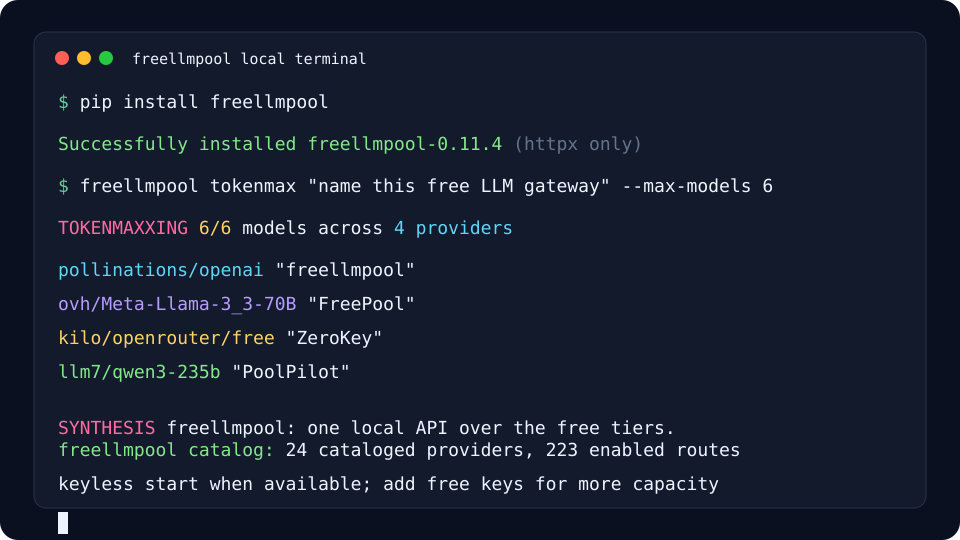
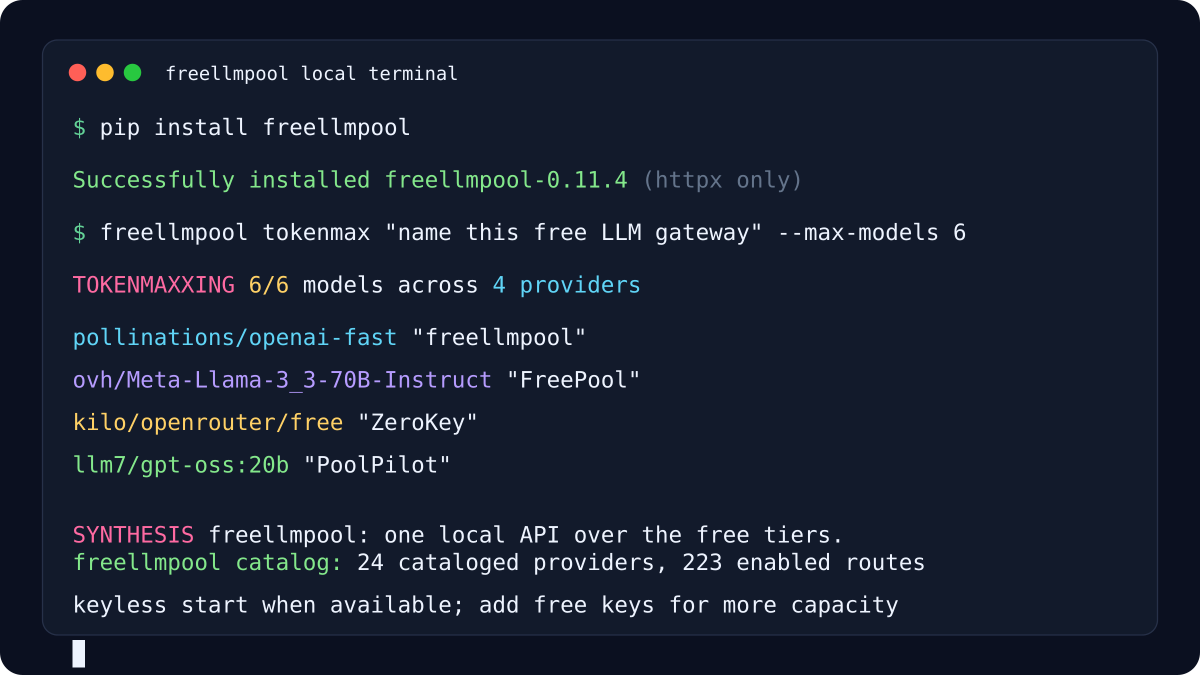
fix: address xhigh maintenance audit

diff --git a/scripts/catalog_sentinel.py b/scripts/catalog_sentinel.py
@@ -7,7 +7,6 @@ import argparse
 import asyncio
 import json
 import os
-import re
 import sys
 from collections.abc import Callable
 from datetime import UTC, datetime
@@ -22,17 +21,16 @@ if str(SRC) not in sys.path:
     sys.path.insert(0, str(SRC))
 
 from freellmpool import client as flp_client  # noqa: E402
+from freellmpool.catalog_validation import normalize_model_listing  # noqa: E402
 from freellmpool.config import load_catalog  # noqa: E402
 from freellmpool.errors import ProviderHTTPError  # noqa: E402
 from freellmpool.models import Provider  # noqa: E402
 
 _MAX_BODY_BYTES = 1_000_000
-_MAX_MODEL_ID = 200
 _MAX_SECRET_JSON_BYTES = 32_000
 _MAX_PREVIOUS_BYTES = 2_000_000
 _MAX_ISSUE_BODY_BYTES = 60_000
 _PING = [{"role": "user", "content": "Reply with the single word: pong"}]
-_SAFE_MODEL_ID = re.compile(r"^[A-Za-z0-9@][A-Za-z0-9._:/@+-]{0,199}$")
 # Only endpoints verified to expose a complete public chat-model listing belong
 # here. Everything else is useful for additions, but absences remain unconfirmed.
 _AUTHORITATIVE_PUBLIC_LISTINGS = frozenset({"pollinations"})
@@ -60,32 +58,6 @@ def classify_http(status: int | None) -> str:
     if 500 <= status < 600:
         return "transient_provider_error"
     return "other_provider_error"
-
-
-def normalize_model_listing(payload: Any) -> tuple[str, ...]:
-    rows = payload.get("data") if isinstance(payload, dict) else payload
-    if not isinstance(rows, list):
-        return ()
-    found: set[str] = set()
-    for row in rows:
-        candidates: list[Any]
-        if isinstance(row, dict):
-            candidates = [row.get("id") or row.get("name")]
-            aliases = row.get("aliases")
-            if isinstance(aliases, list):
-                candidates.extend(aliases)
-        else:
-            candidates = [row]
-        for model_id in candidates:
-            if not isinstance(model_id, str):
-                continue
-            if (
-                not 1 <= len(model_id) <= _MAX_MODEL_ID
-                or not _SAFE_MODEL_ID.fullmatch(model_id)
-            ):
-                continue
-            found.add(model_id)
-    return tuple(sorted(found))
 
 
 def _public_models_url(provider: Provider) -> str:

diff --git a/tests/test_proxy.py b/tests/test_proxy.py
@@ -16,6 +16,7 @@ import pytest
 from helpers import gemini_body, make_post, make_stream_post, openai_body
 
 from freellmpool import __version__
+from freellmpool import proxy as proxy_module
 from freellmpool.client import HTTPResult
 from freellmpool.errors import AllProvidersExhausted
 from freellmpool.proxy import (
@@ -50,14 +51,15 @@ def _post_json(url, payload):
         return resp.status, json.load(resp)
 
 
-def test_chat_completions_shape(server):
+def test_chat_completions_shape(server, monkeypatch):
+    monkeypatch.setattr(proxy_module.time, "time", lambda: 1_700_000_000.875)
     status, body = _post_json(
         server + "/v1/chat/completions",
         {"model": "auto", "messages": [{"role": "user", "content": "hi"}]},
     )
     assert status == 200
     assert body["object"] == "chat.completion"
-    assert isinstance(body["created"], int)
+    assert body["created"] == 1_700_000_000
     assert body["choices"][0]["message"]["content"] == "ok"
     assert "x_freellmpool" in body
 
@@ -222,9 +224,9 @@ def test_proxy_waits_briefly_for_a_connection_slot_before_rejecting(monkeypatch)
     server.shutdown_request = lambda request: rejected.append(request)
 
     request = object()
+    started = time.monotonic()
     releaser = threading.Timer(0.05, server._slots.release)
     releaser.start()
-    started = time.monotonic()
     server.process_request(request, ("127.0.0.1", 12345))
     elapsed = time.monotonic() - started
     releaser.join()

diff --git a/src/freellmpool/catalog_validation.py b/src/freellmpool/catalog_validation.py
@@ -2,8 +2,10 @@
 
 from __future__ import annotations
 
+import re
 from collections import Counter
 from pathlib import Path
+from typing import Any
 from urllib.parse import urlsplit
 
 from .capability import capability_table, model_capability
@@ -12,6 +14,33 @@ from .models import Provider
 
 _ADAPTERS = {"openai", "gemini", "cloudflare"}
 _AUTH = {"bearer", "none"}
+_MAX_MODEL_ID = 200
+_SAFE_MODEL_ID = re.compile(r"^[A-Za-z0-9@][A-Za-z0-9._:/@+-]{0,199}$")
+
+
+def normalize_model_listing(payload: Any) -> tuple[str, ...]:
+    """Return bounded, safe canonical model names and aliases from common listings."""
+
+    rows = payload.get("data") if isinstance(payload, dict) else payload
+    if not isinstance(rows, list):
+        return ()
+    found: set[str] = set()
+    for row in rows:
+        if isinstance(row, dict):
+            candidates: list[Any] = [row.get("id") or row.get("name")]
+            aliases = row.get("aliases")
+            if isinstance(aliases, list):
+                candidates.extend(aliases)
+        else:
+            candidates = [row]
+        for model_id in candidates:
+            if (
+                isinstance(model_id, str)
+                and 1 <= len(model_id) <= _MAX_MODEL_ID
+                and _SAFE_MODEL_ID.fullmatch(model_id)
+            ):
+                found.add(model_id)
+    return tuple(sorted(found))
 
 
 def _valid_url(value: str) -> bool:

diff --git a/scripts/vet_catalog.py b/scripts/vet_catalog.py
@@ -43,6 +43,7 @@ if _SRC.is_dir():
 import httpx  # noqa: E402
 
 from freellmpool import client as flp_client  # noqa: E402
+from freellmpool.catalog_validation import normalize_model_listing  # noqa: E402
 from freellmpool.config import configured_providers, effective_env, load_catalog  # noqa: E402
 from freellmpool.errors import ProviderHTTPError  # noqa: E402
 from freellmpool.models import Provider  # noqa: E402
@@ -130,6 +131,9 @@ def list_live_models(provider: Provider, env: dict) -> list[str]:
     key = provider.api_key(env)
     auth = {"Authorization": f"Bearer {key}"} if key else {}
 
+    if provider.id == "pollinations":
+        return _list_fallback(provider)
+
     if provider.adapter == "gemini":
         data = _http_get_obj(f"{provider.base_url}/models?key={key}", {})
         return [m["name"].split("/")[-1] for m in data.get("models", []) if "name" in m]
@@ -176,12 +180,7 @@ def _list_fallback(provider: Provider) -> list[str]:
             data = _http_get("https://text.pollinations.ai/models", {})
         except Exception:
             return []
-        out = []
-        for m in data if isinstance(data, list) else []:
-            name = m.get("name") if isinstance(m, dict) else (m if isinstance(m, str) else None)
-            if name:
-                out.append(name)
-        return out
+        return list(normalize_model_listing(data))
     return []
 
 

diff --git a/tests/test_faq.py b/tests/test_faq.py
@@ -1,10 +1,12 @@
 from __future__ import annotations
 
+import re
 import tomllib
 import xml.dom.minidom
 from pathlib import Path
 
 from freellmpool import __version__
+from freellmpool.config import load_catalog
 
 ROOT = Path(__file__).resolve().parents[1]
 
@@ -74,3 +76,24 @@ def test_demo_assets_are_well_formed_and_current():
     assert "407 cataloged" in results
     assert "cataloged providers" in results
     assert "$0" in results
+
+    provider_ids = {provider.id for provider in load_catalog()}
+    displayed_routes = {
+        value
+        for value in re.findall(
+            r'<tspan class="(?:cyan|purple|yellow|green)">([^<]+/[^<]+)</tspan>', demo
+        )
+        if value.split("/", 1)[0] in provider_ids
+    }
+    automatic_routes = {
+        f"{provider.id}/{model.name}"
+        for provider in load_catalog()
+        for model in provider.models
+        if model.enabled and model.auto
+    }
+    assert displayed_routes
+    assert displayed_routes <= automatic_routes
+
+    assert (ROOT / "docs/assets/demo.png").read_bytes() == (
+        ROOT / "assets/demo.png"
+    ).read_bytes()

diff --git a/tests/test_router.py b/tests/test_router.py
@@ -305,6 +305,26 @@ def test_all_targets_uses_indexed_filters(env, quota):
     assert [t.name for t in pool._all_targets(include=["b"], model="shared")] == ["b/shared"]
 
 
+def test_exact_pin_preserves_alias_excluded_from_automatic_routing(env, quota):
+    from freellmpool.models import Model, Provider
+
+    provider = Provider(
+        id="aliases",
+        label="Aliases",
+        adapter="openai",
+        base_url="https://aliases.test/v1",
+        auth="none",
+        models=(Model("canonical"), Model("friendly-alias", auto=False)),
+    )
+    pool = Pool([provider], quota=quota, env=env, post=make_post({}))
+
+    assert [target.name for target in pool._all_targets()] == ["aliases/canonical"]
+    assert [target.name for target in pool._all_targets(model="friendly-alias")] == [
+        "aliases/friendly-alias"
+    ]
+    assert pool.ask("hi", model="friendly-alias").model == "friendly-alias"
+
+
 def test_tool_calls_reply_is_success(providers, env, quota):
     tc = [{"id": "c", "type": "function", "function": {"name": "f", "arguments": "{}"}}]
     post = make_post(

diff --git a/scripts/check_release_ready.py b/scripts/check_release_ready.py
@@ -182,8 +182,8 @@ def build_and_smoke(root: Path, *, version: str, dist_dir: Path | None = None) -
         if dist.exists():
             shutil.rmtree(dist)
 
-    # The host toolchain may ship an old pkginfo/twine that rejects
-    # Metadata-Version: 2.4 wheels. Create an isolated checker venv with
+    # The host toolchain may ship an old pkginfo/twine that rejects modern
+    # metadata. Create an isolated checker venv with
     # packaging tools known to support modern metadata.
     checker_tmp = tempfile.TemporaryDirectory(prefix="flp-release-checker-")
     checker = Path(checker_tmp.name) / "venv"
@@ -202,7 +202,7 @@ def build_and_smoke(root: Path, *, version: str, dist_dir: Path | None = None) -
                 "install",
                 "--upgrade",
                 "build>=1.2",
-                "twine>=6.0,<7.0",
+                "twine==7.0.0",
                 "pkginfo>=1.12,<2.0",
             ],
             cwd=root,

diff --git a/tests/test_release_metadata.py b/tests/test_release_metadata.py
@@ -49,6 +49,12 @@ def test_runtime_dependencies_guard_stdlib_first_contract() -> None:
     assert pyproject["project"]["dependencies"] == ["httpx>=0.27"]
 
 
+def test_build_backend_is_reproducibly_pinned() -> None:
+    pyproject = tomllib.loads((ROOT / "pyproject.toml").read_text())
+
+    assert pyproject["build-system"]["requires"] == ["hatchling==1.32.0"]
+
+
 def test_readme_has_copy_pastable_tailnet_and_metaswarm_paths() -> None:
     readme = (ROOT / "README.md").read_text(encoding="utf-8")
     assert "freellmpool tailnet serve --port 8080" in readme
@@ -215,4 +221,4 @@ def test_pypi_metadata_has_launch_surfaces() -> None:
 
     dev_deps = project["optional-dependencies"]["dev"]
     assert any(dep.startswith("build>=") for dep in dev_deps)
-    assert any(dep.startswith("twine>=") for dep in dev_deps)
+    assert "twine==7.0.0" in dev_deps

diff --git a/tests/test_supply_chain.py b/tests/test_supply_chain.py
@@ -237,6 +237,17 @@ def test_release_checklist_only_passes_distributions_to_twine():
     assert 'twine upload "$release_evidence_dir"/*.whl' in checklist
 
 
+def test_ci_and_release_evidence_validate_built_distribution_metadata():
+    ci = (WORKFLOWS / "ci.yml").read_text(encoding="utf-8")
+    release = (WORKFLOWS / "release-evidence.yml").read_text(encoding="utf-8")
+    readiness = (ROOT / "scripts" / "check_release_ready.py").read_text(encoding="utf-8")
+
+    assert "python -m twine check dist/*.whl dist/*.tar.gz" in ci
+    assert "twine==7.0.0" in release
+    assert "python -m twine check dist/*.whl dist/*.tar.gz" in release
+    assert '"twine==7.0.0"' in readiness
+
+
 def test_security_enforcement_is_documented():
     enforcement = (ROOT / "docs" / "SECURITY_ENFORCEMENT.md").read_text(
         encoding="utf-8"

diff --git a/tests/test_vet_catalog.py b/tests/test_vet_catalog.py
@@ -54,6 +54,26 @@ def test_discovery_filters_paid_aggregator_routes(monkeypatch) -> None:
     assert vetter.list_live_models(_provider("opencode"), {}) == ["hy3-free"]
 
 
+def test_pollinations_discovery_includes_canonical_name_and_aliases(monkeypatch) -> None:
+    vetter = _load_vetter()
+    monkeypatch.setattr(
+        vetter,
+        "_http_get",
+        lambda url, headers: [
+            {
+                "name": "openai-fast",
+                "aliases": ["openai", "gpt-oss", "bad`alias", 42],
+            }
+        ],
+    )
+
+    assert vetter.list_live_models(_provider("pollinations"), {}) == [
+        "gpt-oss",
+        "openai",
+        "openai-fast",
+    ]
+
+
 def test_ping_model_rejects_empty_http_success(monkeypatch) -> None:
     vetter = _load_vetter()
     calls = 0

diff --git a/src/freellmpool/router.py b/src/freellmpool/router.py
@@ -207,7 +207,7 @@ class Pool:
                 targets.append(target)
                 targets_by_provider.setdefault(provider.id, []).append(target)
                 targets_by_model.setdefault(model_obj.name, []).append(target)
-                if model_obj.enabled:
+                if model_obj.enabled and model_obj.auto:
                     enabled_targets.append(target)
                     enabled_by_provider.setdefault(provider.id, []).append(target)
                     enabled_by_model.setdefault(model_obj.name, []).append(target)

diff --git a/tests/test_config.py b/tests/test_config.py
@@ -325,6 +325,10 @@ def test_pollinations_catalog_matches_live_chat_selectors():
 
     assert set(models) == {"openai", "openai-fast", "gpt-oss"}
     assert models["gpt-oss"].enabled is True
+    assert models["openai-fast"].auto is True
+    assert models["openai"].auto is False
+    assert models["gpt-oss"].auto is False
+
 
 def test_env_example_documents_keyless_providers():
     """Verify .env.example lists all default-enabled keyless/key-optional providers."""
